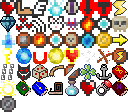
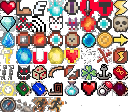
Symbol cleanup in progress

diff --git a/scripts/entities/moving_entities/enemies/behavior/abilities/ability_config/active_ability_stats.py b/scripts/entities/moving_entities/enemies/behavior/abilities/ability_config/active_ability_stats.py
@@ -1,0 +1,14 @@
+from scripts.engine.keys import keys
+from scripts.entities.moving_entities.enemies.behavior.abilities.ability_config.ability_attribute import Ability_Attribute
+
+ACTIVE_ABILITIES = {
+    keys.dash =Ability_Attribute(keys.speed, False),
+    keys.jump = Ability_Attribute(keys.jump, True),
+    keys.run_away = Ability_Attribute(keys.),
+    keys.invulnerable = Ability_Attribute(keys.invulnerable),
+    keys.rage = Ability_Attribute(),
+    keys.invisibility = Ability_Attribute(),
+    keys.charge = Ability_Attribute(),
+    keys.rally = Ability_Attribute(),
+    keys.electrify = Ability_Attribute(),
+}

diff --git a/scripts/engine/fonts/symbols.py b/scripts/engine/fonts/symbols.py
@@ -12,7 +12,7 @@ class Symbols():
                 keys.souls, keys.invisibility,
                 keys.slash, keys.blunt, keys.electric,
                 keys.resistance, keys.regen, keys.silence,
-                keys.luck, keys.vampiric, keys.fire,
+                keys.jump, keys.vampiric, keys.fire,
                 keys.frozen, keys.poison, keys.wet,
                 keys.block, keys.fire_resistance,
                 keys.frozen_resistance, keys.poison_resistance,

diff --git a/scripts/entities/items/runes/constant_runes/manget_rune.py b/scripts/entities/items/runes/constant_runes/manget_rune.py
@@ -8,7 +8,7 @@ class Magnet_Rune(Rune):
 
 
     def Update(self, delta_time):
-        if not self.game.player.effects.arcane_conduit.effect:
+        if not self.game.player.Get_Effect_Power(keys.arcane_conduit):
             self.game.player.Set_Effect(self.effect, self.power)
         return super().Update(delta_time)        
 

diff --git a/scripts/entities/moving_entities/enemies/behavior/abilities/ability_config/ability_attribute.py b/scripts/entities/moving_entities/enemies/behavior/abilities/ability_config/ability_attribute.py
@@ -1,0 +1,9 @@
+from dataclasses import dataclass
+from typing import Tuple, Optional
+from scripts.engine.keys.keys import keys
+
+
+@dataclass
+class Ability_Attribute:
+    symbol : str
+    can_attack_while_triggered : Optional[bool] = None
